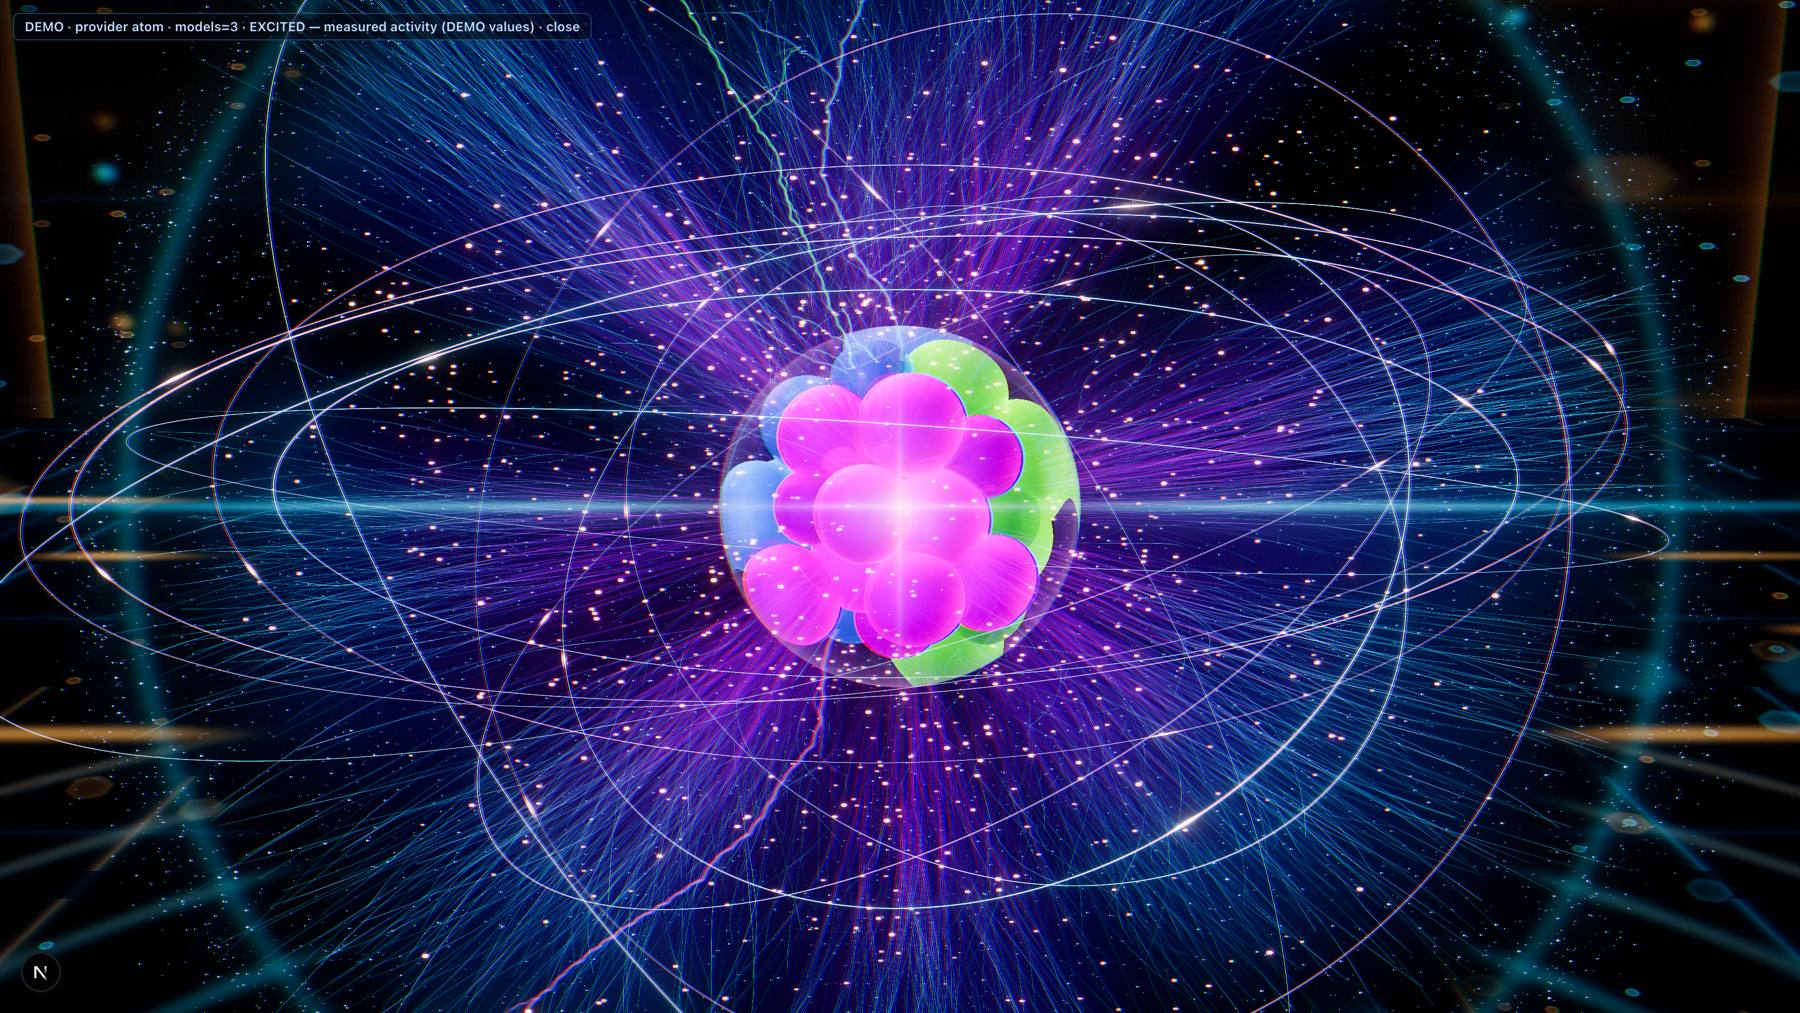
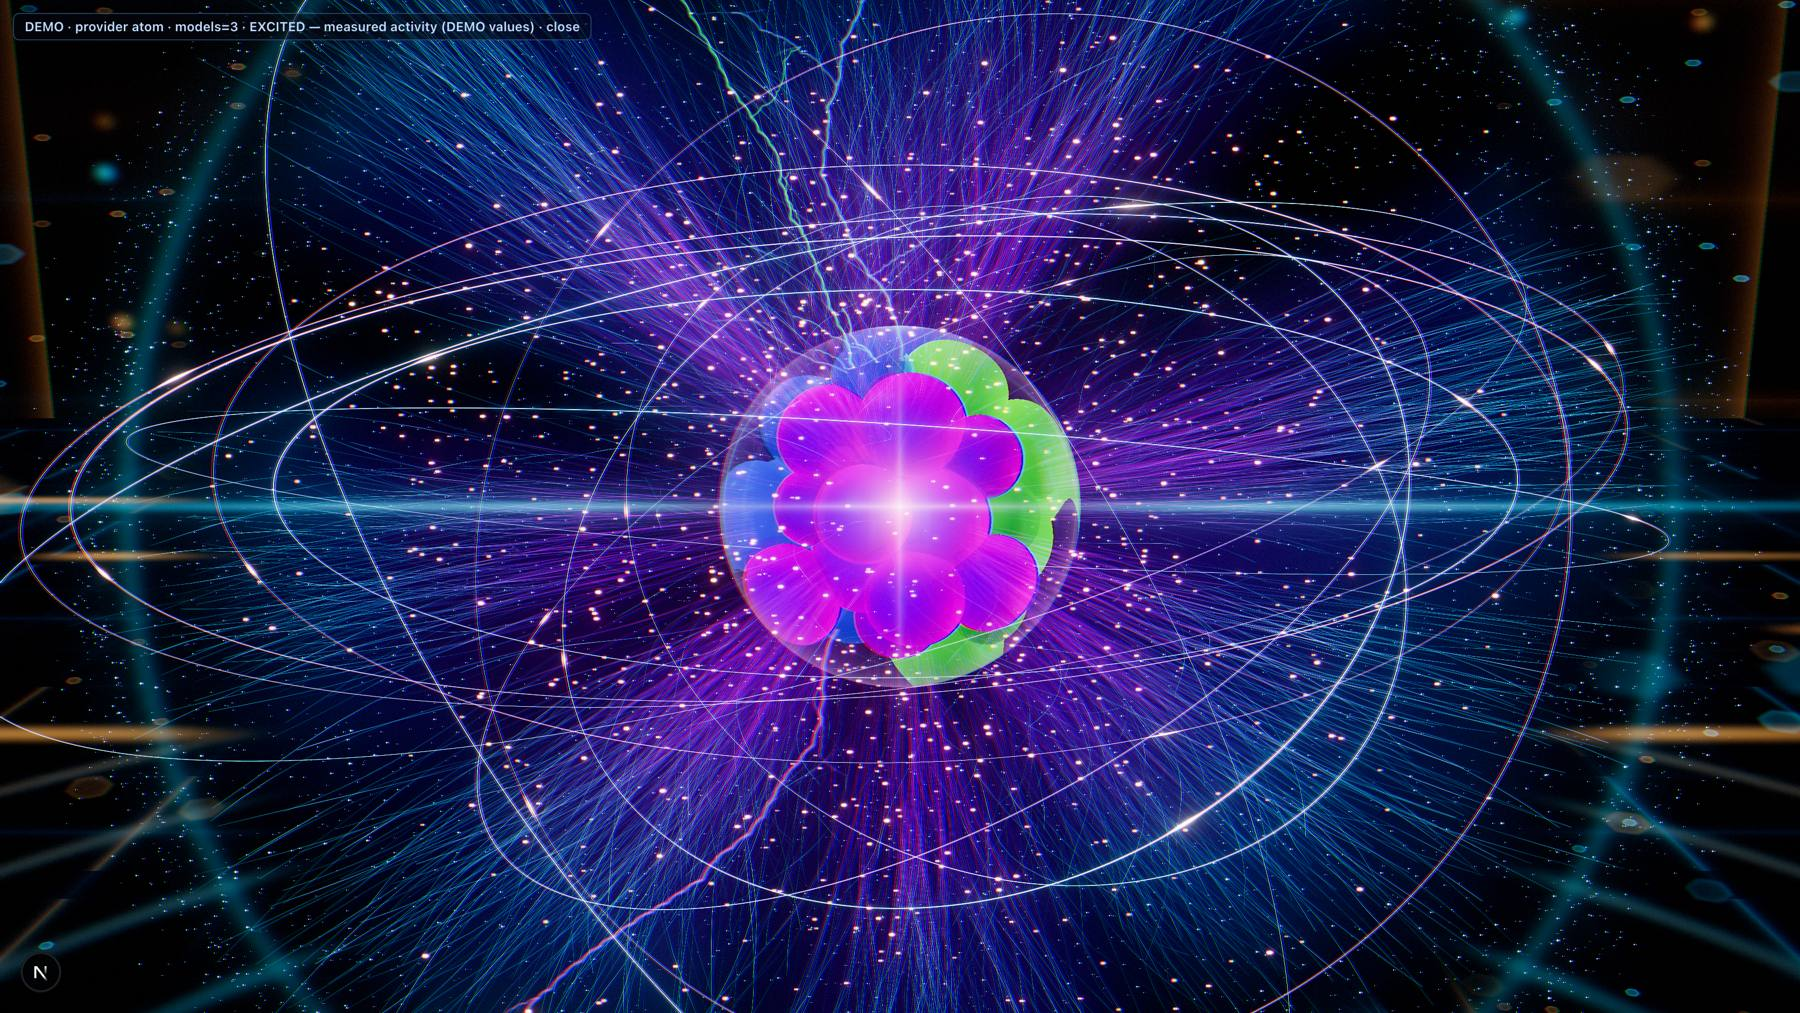
feat(atomic-topology): gate A r10 distance-aware filled cloud, glowing saturated nucleons, deep hub palette
Addresses gateA-r2 findings 1,3,4 (finding 2 superseded by OPERATOR_DIRECTIVES: keep smooth balls, make them glow).
Ran: node --import tsx/esm --test tests/unit/atomic-topology/*.test.ts: 437 tests, 436 pass, 0 fail, 1 skipped;
typecheck:core 0 atomic-topology errors; lint 7 pre-existing errors outside plugin; 19/19 captures ok (M5 Max, headed Chrome, WebGPU);
uncapped p50/p95: default 2.7/3.0, close 8.1/8.5, 20 atoms 8.1/9.1, 32 atoms 12.2/29+ ms.

Changed region(s): [[0.4044, 0.306, 0.6222, 0.6732]]

diff --git a/src/plugins/atomic-topology/scene/shaders/atomImpostor.ts b/src/plugins/atomic-topology/scene/shaders/atomImpostor.ts
@@ -172,6 +172,8 @@ export interface AtomUniforms {
   peaks: ReturnType<typeof uniform>;
   hues: ReturnType<typeof uniform>[];
   coreColor: ReturnType<typeof uniform>;
+  /** 0 = close, 1 = default distance and beyond (distance-aware cloud density). */
+  far: ReturnType<typeof uniform>;
   /** x excitation, y saturation, z brightness */
   energy: ReturnType<typeof uniform>;
   phase: ReturnType<typeof uniform>;
@@ -217,6 +219,7 @@ export function createAtomUniforms(): AtomUniforms {
       uniform(new Vector3(0.5, 0.2, 0.9)),
     ],
     coreColor: uniform(new Vector3(0.8, 0.6, 1)),
+    far: uniform(0),
     energy: uniform(new Vector3(0.12, 0.35, 0.35)),
     phase: uniform(0),
     steps: uniform(96, "int"),
@@ -259,7 +262,7 @@ export function createAtomMaterial(u: AtomUniforms): MeshBasicNodeMaterial {
       const t4 = tint.element(iBest);
       const albedoRaw = t4.xyz;
       const albedoLuma = dot(albedoRaw, vec3(0.2126, 0.7152, 0.0722));
-      const albedo = max(mix(vec3(albedoLuma), albedoRaw, 1.55), 0).mul(
+      const albedo = max(mix(vec3(albedoLuma), albedoRaw, 2.1), 0).mul(
         mix(float(1), saturation.mul(0.5).add(0.5), 1)
       );
       const isP = t4.w;
@@ -335,21 +338,26 @@ export function createAtomMaterial(u: AtomUniforms): MeshBasicNodeMaterial {
       const ext = (u.glassRadius as any).div(1.14);
       const dc = length(p.sub(center)).div(ext);
       const coreLight = exp(dc.mul(dc).mul(-2.0));
-      const crystal = mix(albedo, vec3(1.0, 0.3, 0.7), 0.22)
-        .mul(coreLight.mul(1.8).add(edge.mul(0.7)))
+      const crystal = mix(albedo, vec3(1.0, 0.3, 0.7), 0.12)
+        .mul(coreLight.mul(1.1).add(edge.mul(0.5)))
         .mul(float(0.3).add(excitation.mul(0.9)));
       // Self-illumination in each ball's own model hue (energy-scaled: idle is
       // dim and greys via `saturation`, excited is bright). Hue-preserving, so
       // it never washes the balls to white.
       const emissive = albedo.mul(
-        float(0.12)
-          .add(excitation.mul(0.62))
+        float(0.1)
+          .add(excitation.mul(0.38))
           .mul(brightness)
           .mul(float(0.75).add(edge.mul(0.5)))
       );
       const color2 = color.add(crystal).add(emissive);
       const cl = dot(color2, vec3(0.2126, 0.7152, 0.0722));
-      const vivid = max(mix(vec3(cl), color2, 2.6), 0).mul(0.6);
+      const vividRaw = max(mix(vec3(cl), color2, 2.5), 0).mul(0.6);
+      // Hue-preserving soft curve: bright channels are scaled down together instead of
+      // clipping toward white, so glowing balls stay deeply saturated.
+      const vivid = vividRaw
+        .div(max(vividRaw.x, max(vividRaw.y, vividRaw.z)).mul(0.5).add(1))
+        .mul(1.25);
       out.assign(vec4(vivid, tBest));
     });
     return out;
@@ -410,6 +418,7 @@ export function createAtomMaterial(u: AtomUniforms): MeshBasicNodeMaterial {
       // Inner plume: dense and bright near the nucleus, thinning outward.
       .mul(mix(float(1.9), float(0.55), smoothstep(0.08, 0.7, r)))
       .mul(float(0.5).add(excitation.mul(0.5)))
+      .mul((u.far as any).mul(1.9).add(1))
       .mul(0.45);
     // Hot core plasma near the nucleus.
     const core = exp(r.mul(r).mul(-90))

diff --git a/src/plugins/atomic-topology/scene/rt/rtAtom.ts b/src/plugins/atomic-topology/scene/rt/rtAtom.ts
@@ -160,7 +160,7 @@ export function createRtAtom(
   if (opts.hub) {
     for (let i = 0; i < packed.count; i += 1) {
       const proton = tintsArr[i * 4 + 3] > 0.5;
-      const c = hexToLinear(proton ? "#E5484D" : "#B8A9B4");
+      const c = hexToLinear(proton ? "#E0102C" : "#5A2CE0");
       tintsArr[i * 4] = c[0];
       tintsArr[i * 4 + 1] = c[1];
       tintsArr[i * 4 + 2] = c[2];
@@ -468,6 +468,7 @@ export function createRtAtom(
     const dist = f.camera.position.distanceTo(worldCenter);
     const cr = params.cloudRadius;
     // Close range: bolts/streak back off so they never dominate the frame.
+    const farK = Math.min(1, Math.max(0, (dist / cr - 3.2) / 3.3));
     const closeK = Math.min(
       1,
       Math.max(0.4, f.camera.position.distanceTo(worldCenter) / (cr * 4.2))
@@ -483,6 +484,7 @@ export function createRtAtom(
       (u.camUp.value as Vector3).copy(camUp);
       (u.quadHalf as any).value = half;
       (u.cloudRadius as any).value = cr;
+      (u.far as any).value = farK;
       (u.energy.value as Vector3).set(params.excitation, params.saturation, params.brightness);
       (u.phase as any).value = params.phase;
       // Absorbing plasma body thins out in the low-energy (idle) state so it
@@ -527,6 +529,7 @@ export function createRtAtom(
     (strandU.time as any).value = f.phase;
     (strandU.center.value as Vector3).copy(worldCenter);
     (strandU.cloudR as any).value = cr;
+    (strandU.far as any).value = farK;
     (strandU.rootR as any).value = Math.min(0.4, (nucExtent * 0.8) / cr);
     (strandU.pxScale as any).value = pxScale;
     (strandU.energy.value as Vector3).set(params.excitation, params.saturation, params.brightness);
@@ -541,7 +544,7 @@ export function createRtAtom(
     // Quad sized to the visible band only (fill cost: it is additive over MSAA HDR).
     streak.scale.set(cr * 6, cr * 0.16, 1);
     glow.scale.set(cr * 0.62, cr * 0.62, 1);
-    glowK.value = (0.3 + 1.3 * params.excitation) * params.brightness;
+    glowK.value = (0.3 + 1.3 * params.excitation) * params.brightness * (1 + 0.8 * farK);
     ring.scale.set((2 * reach * cr) / 0.9, (2 * reach * cr) / 0.9, 1);
     ringK.value = (0.3 + 0.7 * params.excitation) * params.brightness;
     // Decorative differential swirl: rate rises with energy, never encodes

diff --git a/src/plugins/atomic-topology/scene/shaders/plasmaStrands.ts b/src/plugins/atomic-topology/scene/shaders/plasmaStrands.ts
@@ -74,6 +74,8 @@ export interface StrandUniforms {
   swirl: ReturnType<typeof uniform>;
   /** 1 = strand lifecycle/flicker live, 0 = static still-rich frame (reduced motion). */
   lifeOn: ReturnType<typeof uniform>;
+  /** 0 = close range, 1 = default distance and beyond: lifts density/width/gain so the cloud stays filled. */
+  far: ReturnType<typeof uniform>;
 }
 
 export function createStrandUniforms(): StrandUniforms {
@@ -96,6 +98,7 @@ export function createStrandUniforms(): StrandUniforms {
     floorY: uniform(-62),
     swirl: uniform(0),
     lifeOn: uniform(1),
+    far: uniform(0),
   };
 }
 
@@ -235,7 +238,8 @@ export function createStrandMaterial(u: StrandUniforms, mirror = false): MeshBas
   // Hairline in screen space, tapered at both ends.
   const taper = smoothstep(0, 0.1, t).mul(pow(float(1).sub(t), 0.55));
   const widthPx = widthBase.mul(taper.mul(0.8).add(0.2));
-  const drawPx = max(widthPx, 1.05);
+  const farV = u.far as any;
+  const drawPx = max(widthPx, farV.mul(0.85).add(1.05));
   const lit = step(rank, u.active as any);
   const pxWorld = dist.mul(u.pxScale as any);
   const material = new MeshBasicNodeMaterial();
@@ -283,6 +287,7 @@ export function createStrandMaterial(u: StrandUniforms, mirror = false): MeshBas
       .mul(gmV.mul(0.8).add(0.2))
       .mul(tipCap)
       .mul(bri)
+      .mul((u.far as any).mul(2.6).add(1))
       .mul(flick.mul(0.55).add(0.45).add(pulse))
       .mul(fade)
       .mul(depth)
@@ -344,7 +349,8 @@ export function createSparkleMaterial(u: StrandUniforms): MeshBasicNodeMaterial 
       .mul(float(0.6).add(exc.mul(1.4)))
       .mul(bri)
       .mul(vis)
-      .mul(mix(float(5.5), float(16), kindV));
+      .mul(mix(float(5.5), float(16), kindV))
+      .mul((u.far as any).mul(1.3).add(1));
     return vec4(grade(col, sat).mul(k), 1);
   })();
   return finish(material);

diff --git a/OR_ATOM_010_RAYTRACED/GATE_A.md b/OR_ATOM_010_RAYTRACED/GATE_A.md
@@ -244,3 +244,15 @@ Evidence: M5 Max, headed Chrome, WebGPU apple/metal-3, DPR 2, uncapped (`--disab
 4. **Perf tails root-caused** (`scripts/ad-hoc/pw-atomic-cpuprofile.mjs`, CDP profile, 32 atoms, 5 s): `GPUQueue.writeBuffer` = 2775 ms self time of ~5000 ms, `setVertexBuffer` 551 ms. Each atom owns ~28 render objects (14 wires, strands, mirror strands, sparkles, impostor, mirror impostor, 4 bolts, streak, glow, ring), each with its own object uniform buffer rewritten every frame (~900 small writes/frame at 32 atoms). When the GPU queue is behind, writeBuffer stalls the main thread in ~45 ms steps (longtask observer: 50 ms tasks at the same cadence). Single atom: no spikes, p99 11.6 ms. Disproved: bolt geometry swap (frozen swap, same spikes). Fix belongs to Gate B multi-atom batching (merge the 14 wires into one mesh, share per-atom uniforms). The M5 Max also had load avg ~10 from unrelated processes (Adobe, BTLEServer) during measurement, which inflates tails.
 
 Uncapped frame time (ms, p50/p95/p99): default 2.7/2.9/11.6; close 8.1/8.5/25.3; 20 atoms 7.6/8.7/44.0; 32 atoms 9.5/17.0/47.4 (~105 fps p50). Targets (~120 fps at 20 atoms, >=60 fps at 32) are met at p50.
+
+## Round 10 (response to gateA-r2.md and OPERATOR_DIRECTIVES.md)
+
+Evidence: M5 Max, headed Chrome, WebGPU apple/metal-3, DPR 2, uncapped. 19/19 captures ok; idea5 side-by-sides regenerated (`screenshots/gateA/sidebyside-idea5-*.png`, `preview/`).
+
+1. **Hollow default cloud -> filled (finding 1, directive 5).** New `far` uniform (0 at close range, 1 from ~6.5 cloud radii; computed from camera distance / cloud radius in `rtAtom.ts`) lifts strand gain x3.6, minimum strand width 1.05 -> 1.9 px, sparkle gain x2.3, body-march density x2.9 and the core glow x1.8 at default distance. Close view is unchanged (far = 0). Dark petal voids kept.
+2. **Nucleus (finding 2).** Per OPERATOR_DIRECTIVES.md item 1 the smooth glossy balls are kept; no gem or facets were added. They now glow: saturation boost 2.6 -> 2.1 pre-shade / 2.5 post, stronger hue-locked self-emission, and a smooth Reinhard-style curve on the brightest channel replaces hard clipping, so balls stay deeply saturated and shaded instead of washing to pastel.
+3. **Hub nucleons (finding 3).** Hub palette deepened from #E5484D / #B8A9B4 to #E0102C / #5A2CE0 (deep red / deep violet) with the same self-glow; hub-close no longer shows coral/lilac.
+4. **Resemblance (finding 4).** Default-distance filled body plus the brighter core glow; cyan rim and equatorial flare unchanged.
+5. **Perf tails.** Still the per-object `writeBuffer` cost (~28 render objects per atom). Gate B plan: merge the 14 wires into one mesh, share one per-atom uniform block across impostor/strands/sparkles/mirror, instance the 4 bolt slots. Not fixed in Gate A.
+   Uncapped p50/p95/p99 (ms), machine load avg ~9.6: default 2.7/3.0/11.7; close 8.1/8.5/25.7; 20 atoms 8.1/9.1/42.8; 32 atoms 12.2/29-63/66 (~82 fps p50, >=60 fps target met at p50; it was 9.5 in round 9, the denser far-field cloud costs fill time; p95 is dominated by the writeBuffer stalls above).
+   Commands: `node --import tsx/esm --test tests/unit/atomic-topology/*.test.ts` 437 tests, 436 pass, 0 fail, 1 skipped; `npm run typecheck:core` 0 atomic-topology errors; `npm run lint` 7 pre-existing errors outside the plugin; `zsh scripts/ad-hoc/pw-atomic-gateA-all.sh` 19/19 ok; `python3 scripts/ad-hoc/atomic-gateA-compose.py <dir> idea5.jpeg`; `UNCAPPED=1 pw-atomic-gateA-live.mjs`.
